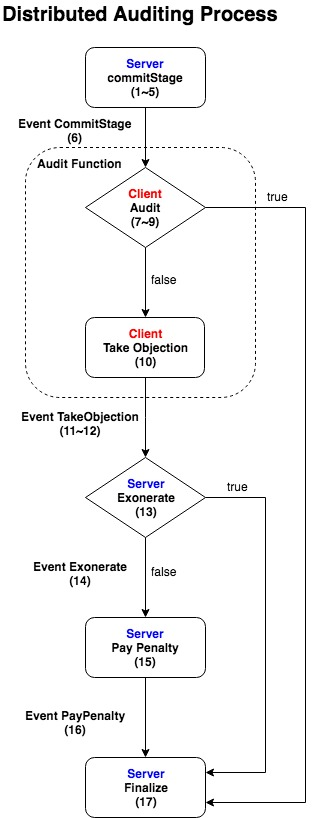
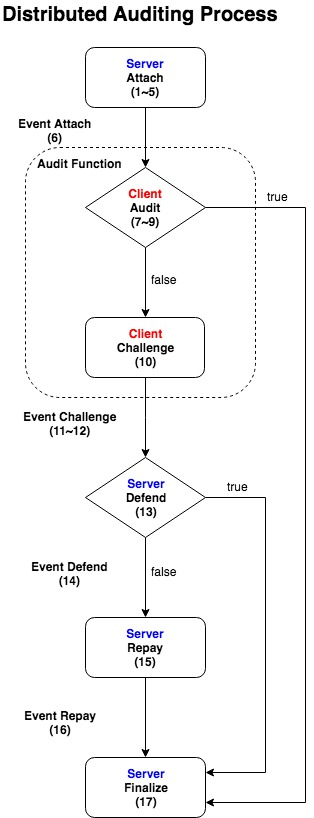
Update whitepaper

diff --git a/white_paper.md b/white_paper.md
@@ -25,7 +25,7 @@
         - 提幣 Withdraw
         - 即時提幣 Instant Withdraw
         - 轉帳 Remittance
-        - 分散式稽核
+        - 稽核與抗議 Auditing & Challenge
     - 側鏈的經濟威脅與經濟激勵
         - 經濟威脅：如安全性分析的幾種抗議
         - 經濟激勵：若如實維護側鏈，則可得到利他點數，有利於更高機會取得區塊獎勵
@@ -530,7 +530,7 @@ return rs
 saveReceipt(rs)
 ```
 
-### 稽核與抗議 Auditing and objection
+### 稽核與抗議 Auditing and Challenge
 ![](images/challenge.jpg)
 ![](images/flow.jpg)
 
@@ -550,7 +550,7 @@ indexed merkle tree
 ![](images/period.jpg)
 
 #### _中心化服務_ 監聽抗議事件，收到抗議後可進行自清 (16)
-![](images/exonerate.jpg)
+![](images/defend.jpg)
 
 #### _中心化服務_ 於自清失敗後須支付罰款 (17)
 
